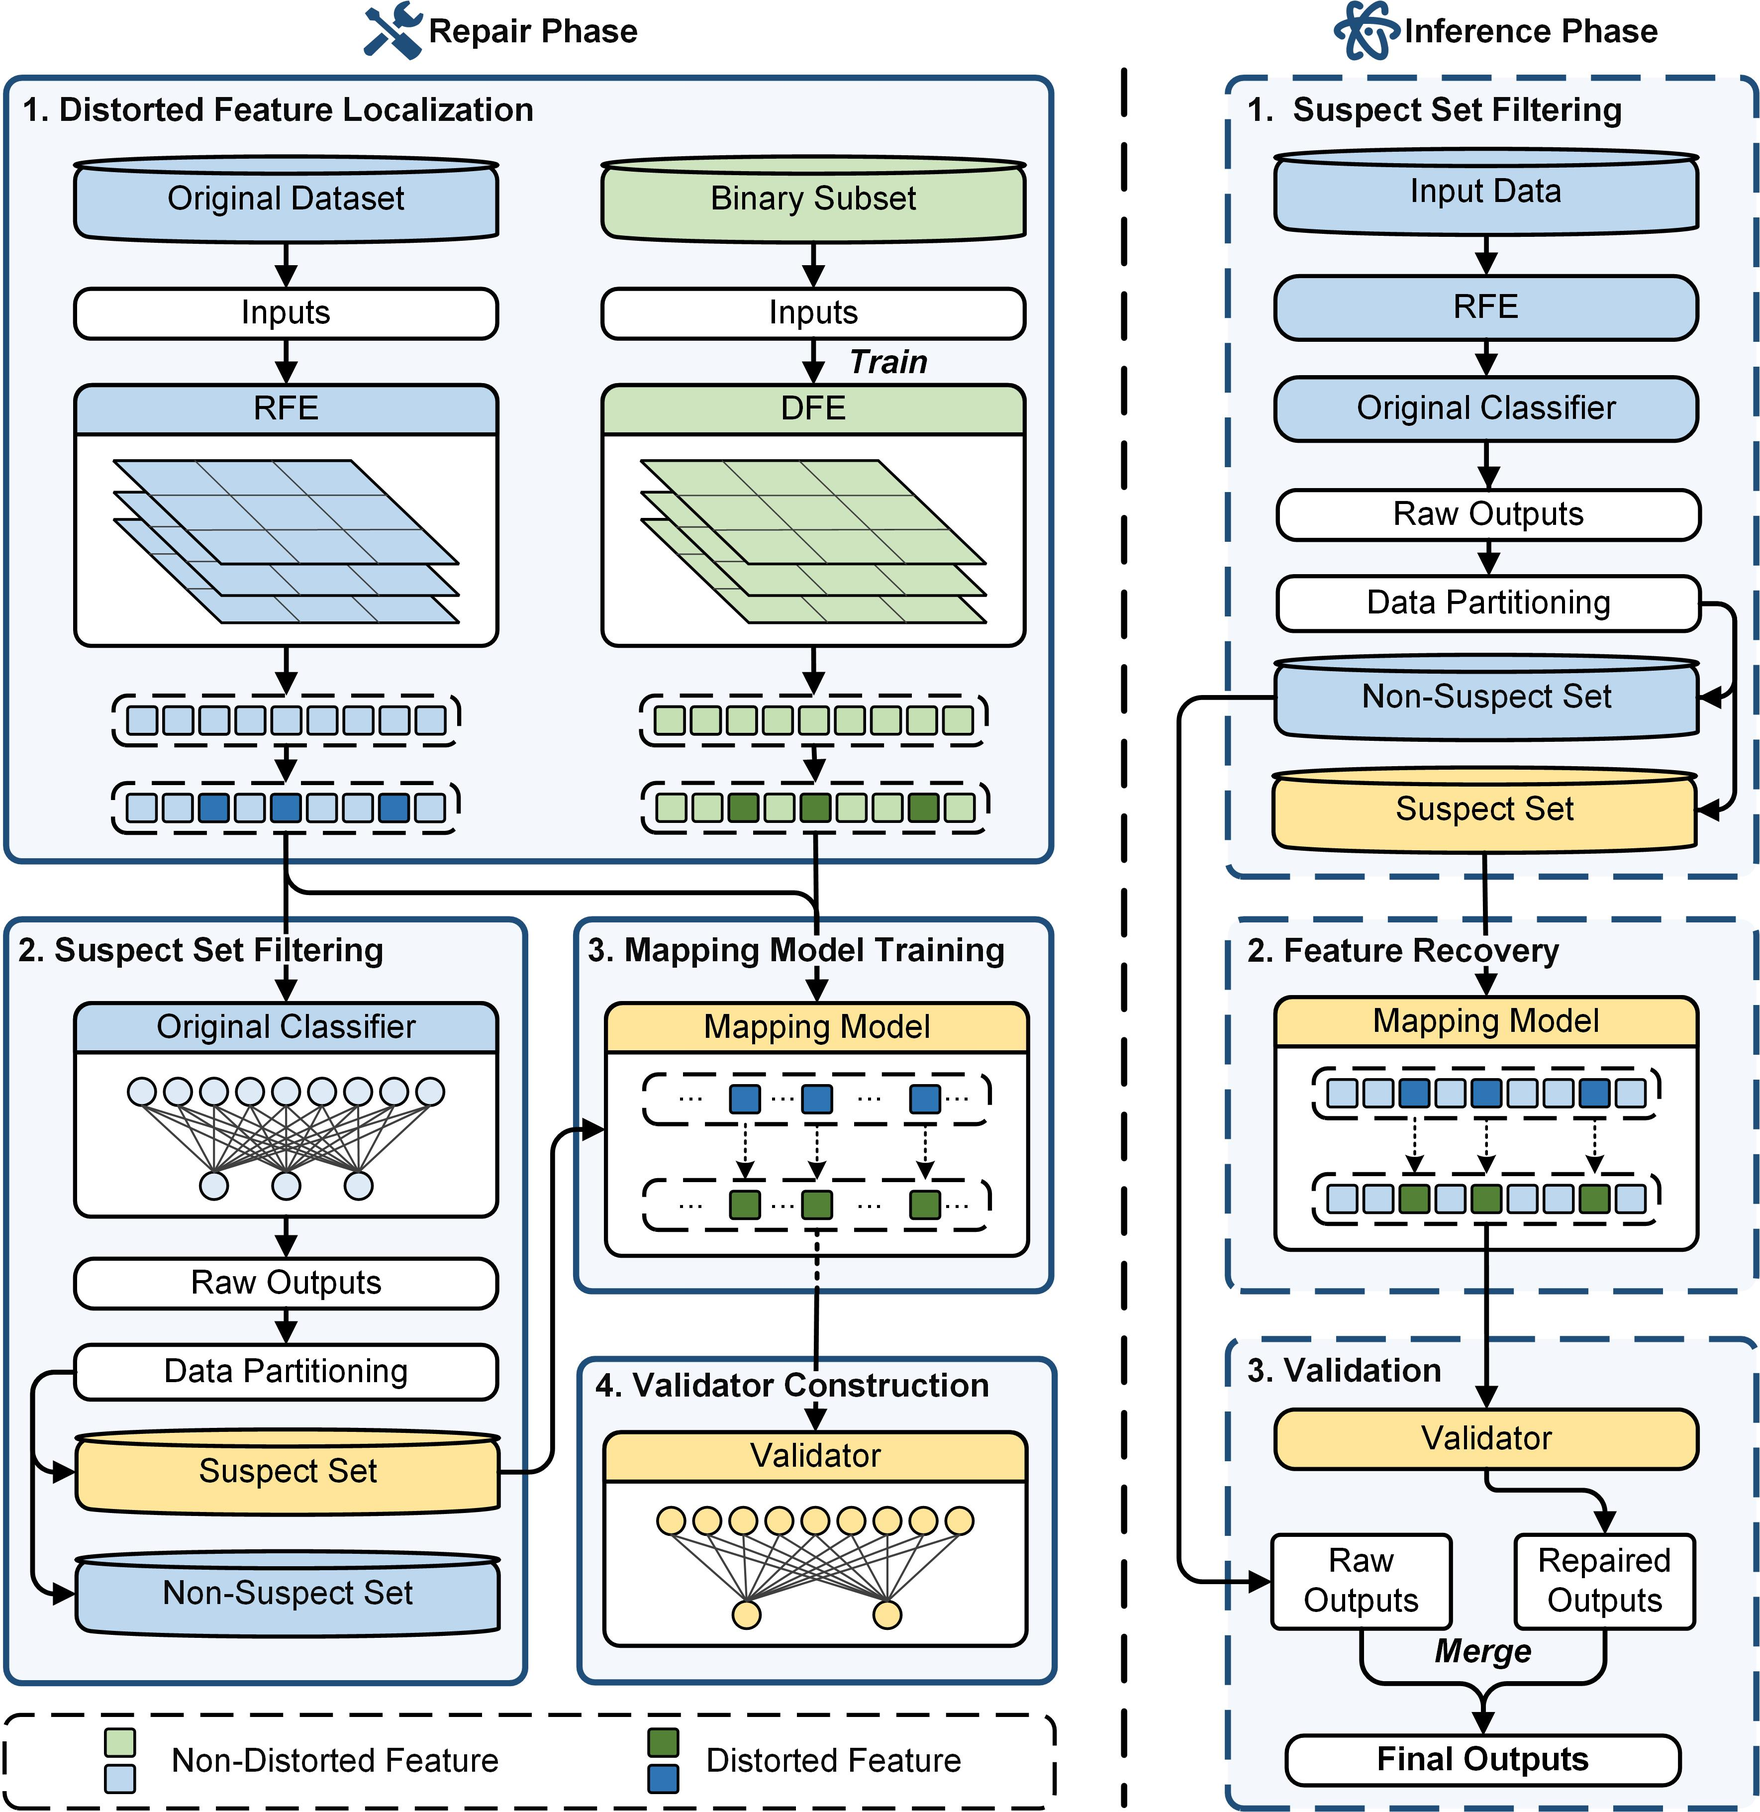
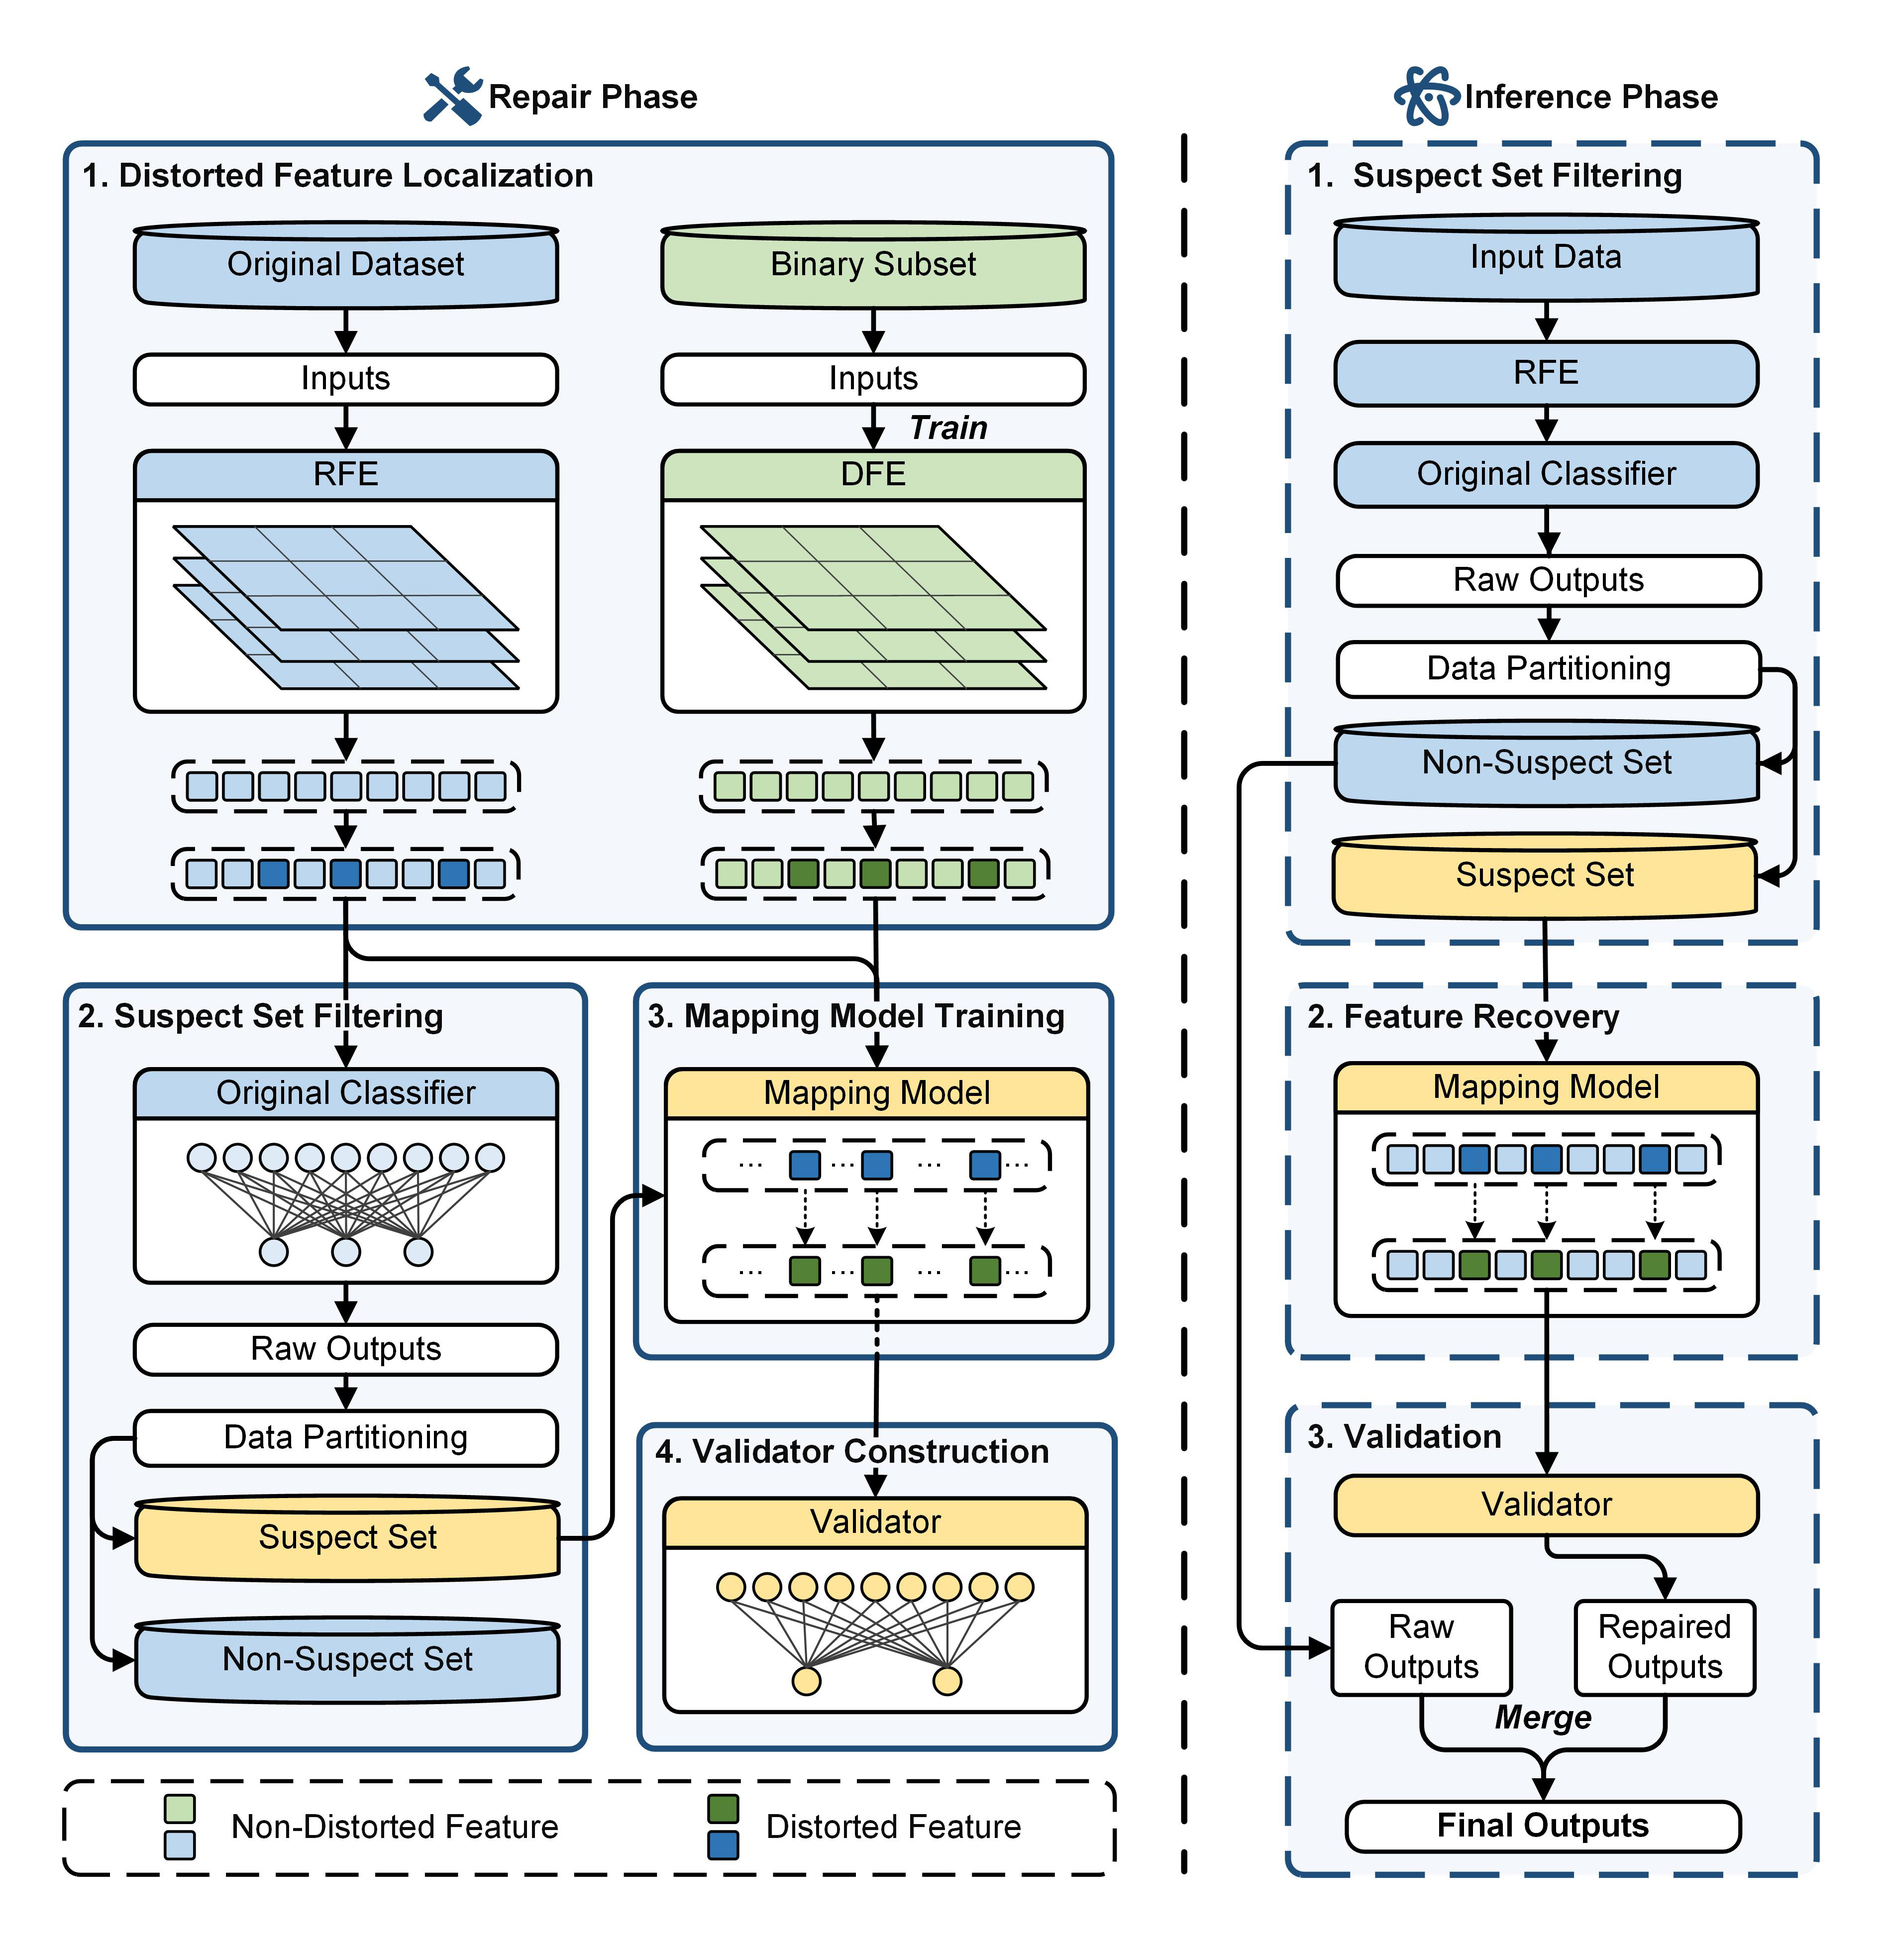
20260314 commit-Win
update Liu Yu's url, and workflow figure of SMiR

diff --git a/_pages/about.md b/_pages/about.md
@@ -36,7 +36,7 @@ I am a Ph.D. candidate in Systems Engineering at Beihang University, advised by 
 
 **Haoran Li**, Shihai Wang, Bin Liu, Shiteng Fei, Wentao Wu, Yu Liu
 
-**TOSEM** (<span style="color:#d62728;"><strong>CCF-A</strong></span>)
+**TOSEM** (<span style="color:#d62728;"><strong>CCF-A</strong></span>, JCR-Q1)
 
 <span>
 <a href="https://dl.acm.org/doi/pdf/10.1145/3771545"><strong>Paper</strong></a> |
@@ -53,7 +53,7 @@ I am a Ph.D. candidate in Systems Engineering at Beihang University, advised by 
 
 
 ## All Publications
-- A slice-level software vulnerability detection method based on hyperbolic gated graph neural network. Yu Liu, Bin Liu, Shihai Wang, Tengfei Shi, **Haoran Li**, Shudi Guo. Frontiers of Computer Science (**FCS**, CCF-B, JCR-Q1), 2026.
+- [A slice-level software vulnerability detection method based on hyperbolic gated graph neural network](https://journal.hep.com.cn/fcs/EN/10.1007/s11704-026-50989-1). Yu Liu, Bin Liu, Shihai Wang, Tengfei Shi, **Haoran Li**, Shudi Guo. Frontiers of Computer Science (**FCS**, CCF-B, JCR-Q1), 2026.
 
 - [An intelligent design system for tailored metamaterial properties](https://www.sciencedirect.com/science/article/abs/pii/S0020740324006362). Jipeng Cui, Yaoyu Wang, Liangchi Zhang, **Haoran Li**. International Journal of Mechanical Sciences (**IJMS**, JCR-Q1), 2024
 
